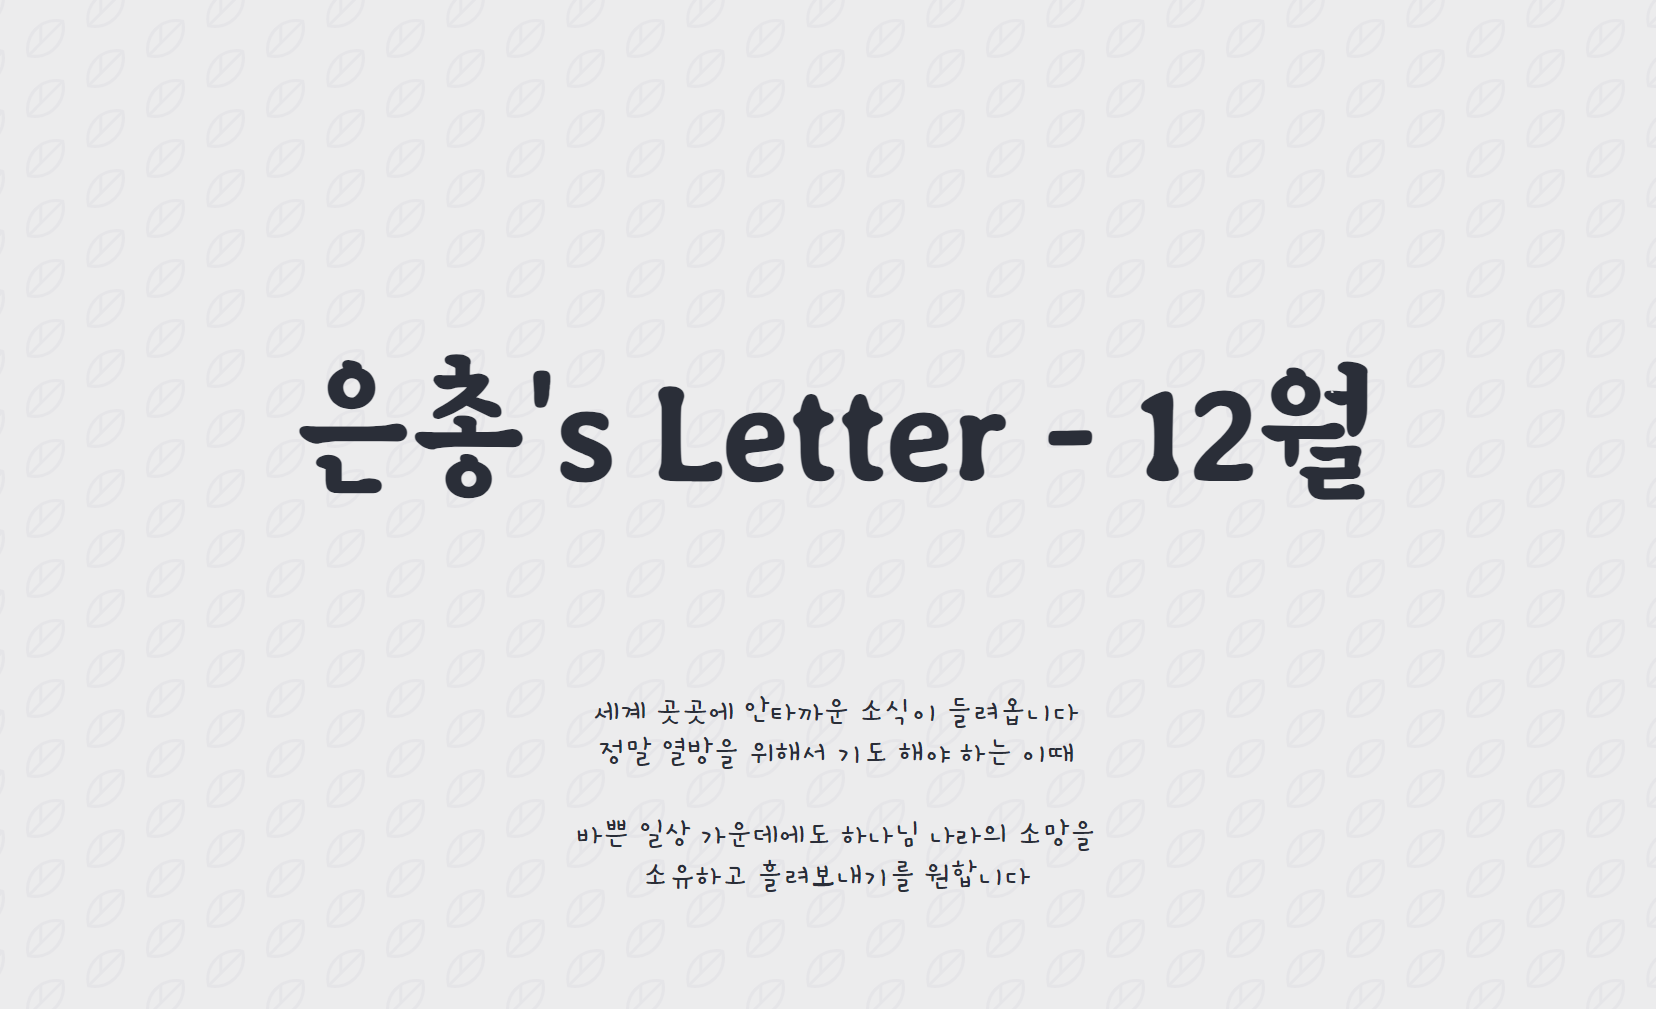
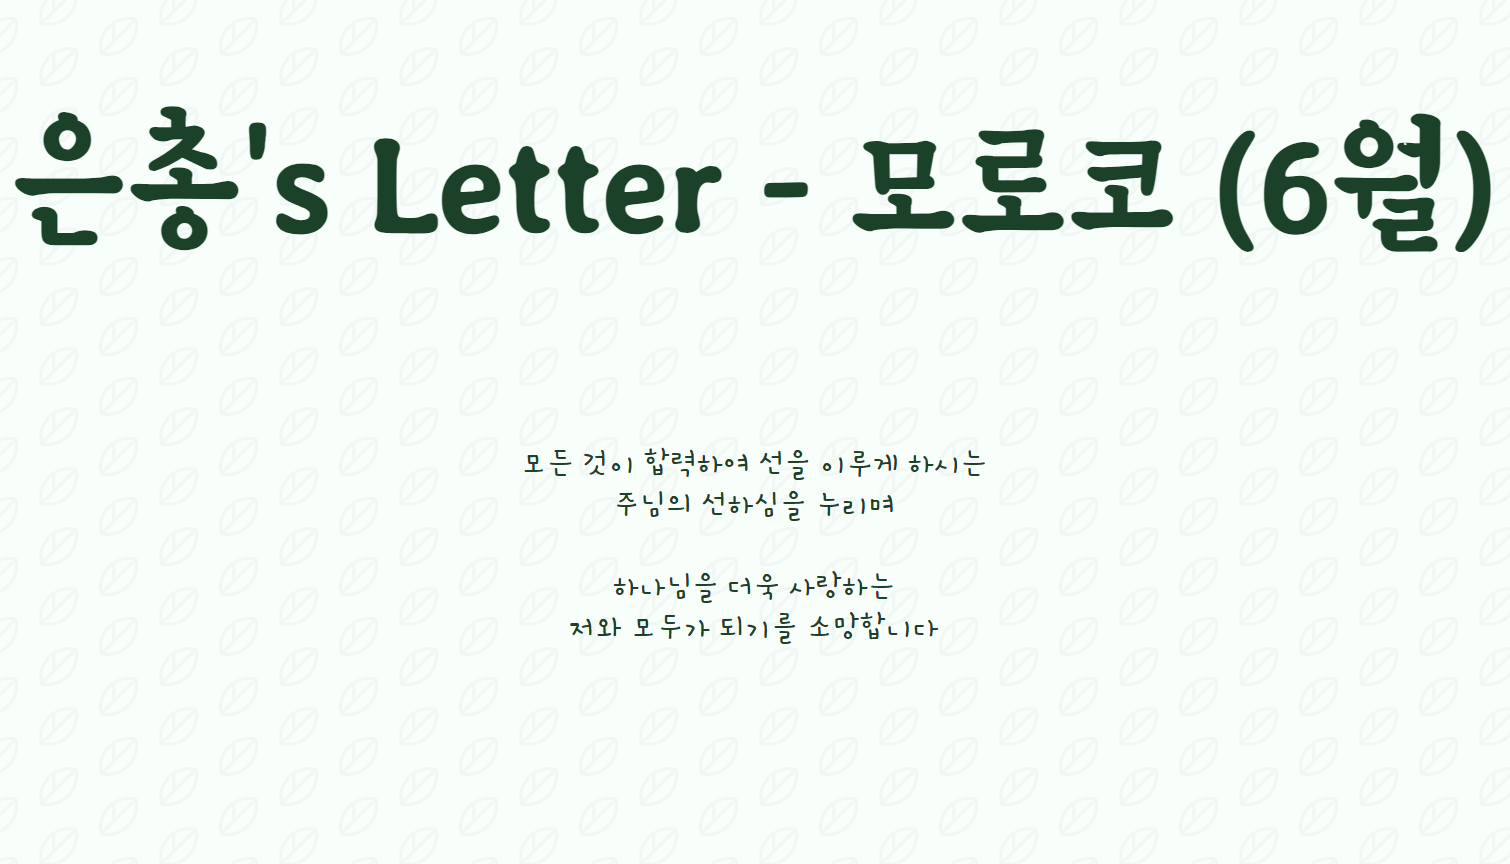
first commit

diff --git a/index.html b/index.html
@@ -4,8 +4,8 @@
     <meta charset="UTF-8">
     <meta name="viewport" content="width=device-width, initial-scale=1.0">
     <!-- 카카오톡 썸네일 사진 -->
-    <meta name="image" property="og:image" content="https://mitto94.github.io/Letter2312/sumnail.png" />
-    <title>은총's Letter - 12월</title>
+    <!-- <meta name="image" property="og:image" content="https://mitto94.github.io/Letter2406/sumnail.png" /> -->
+    <title>은총's Letter - 모로코 (6월)</title>
     <link rel="icon" type="image/jpg" sizes="16x16" href="letter.jpg">
 
     <!-- <link rel="icon" type="image/png" sizes="16x16" href="/favicon-16x16.png"> -->
@@ -61,10 +61,10 @@
     <section id="">
         <div class="title-group">
             <div id="">
-                <h1>은총's Letter - 12월</h1>
+                <h1>은총's Letter - 모로코 (6월)</h1>
                 <br><br>
                 <h3>
-                    <br><br>세계 곳곳에 안타까운 소식이 들려옵니다<br>정말 열방을 위해서 기도 해야 하는 이때<br><br>바쁜 일상 가운데에도 하나님 나라의 소망을 <br> 소유하고 흘려보내기를 원합니다
+                    <br><br>모든 것이 합력하여 선을 이루게 하시는<br>주님의 선하심을 누리며<br><br>하나님을 더욱 사랑하는 <br> 저와 모두가 되기를 소망합니다
                 </h3>
                 <!-- <h3>따듯한 햇살과 찬바람이 <br>함께하는 봄이 왔습니다.<br> 매년 변함없이 피는 꽃과 같이,<br> 하나님의 신실하신 인도하심을 <br> 누리는 시간되시기를 소망합니다.</h3> -->
             </div>
@@ -81,20 +81,38 @@
                 <!-- <img style="height: 100%; width: 100%;" src="한동하늘.jpg" />
                 <i style="display: flex; justify-content: center;"><한동대 꽃 사진></i> -->
                 안녕하세요. <br>
-                오랜만에 기도편지를 적습니다. 벌써 한해의 끝이 보이는 12월이네요. 저에게는 참 시간이 빠르게 흘러 연말이 왔는데, 중보자님은 한 해를 어떻게 보내셨는지 궁금하네요! ㅎㅎ
+                어느덧 한해의 절반을 바라보는 6월입니다. 저는 선교사를 준비하며 비전선교단 전임간사로 한동대와 포항 청년들을 섬기고 있습니다. 청년들이 주님께 헌신하지 않고 자기의 삶에만 집중되어 가는 이 시대에, 부족함에도 큰 은혜를 입어 많은 청년들이 연결되어 바쁘지만 감사하게 지내고 있습니다.
                 <br><br>
-                저는 한동대 비전선교단 동아리원들, FS훈련생들과 함께 시간을 보냈습니다. 동아리와 훈련을 섬기며 훈련생들 한 사람 한 사람을 위해 기도하고 받은 마음과 말씀을 나눠주며 섬기는 시간 가운데, 동일한 말씀을 다른 상황에 처해있는 저에게도 조명하시고 말씀하시며 저를 더욱 섬겨주시는 하나님을 만나는 감사한 시간을 보내고 있습니다.
+                전임간사를 하면서 참 좋은 점이 하나 있습니다. 직장생활을 했던 삶에 비하면 재정과 시간과 나의 삶은 없어져 가지만, 사람들을 섬기며 하나님의 살아계심을 더 가까이서 느끼고 하나님을 깊이 알아갈 수 있다는 게 참 좋습니다. 섬기기엔 많이 부족하고 내 육체의 죄성에서도 자유하지 못하지만, 하나님이 아닌 다른 것을 소망하고 다른 기쁨을 구하는 안타까운 시간을 빨리 돌이킬 수 있는 삶이기에 참 감사합니다.
+                <br><br>
+                <img style="height: 100%; width: 100%;" src="선교축제.jpg" />
+                <i style="display: flex; justify-content: center;"><한동대 선교축제 부스 운영하며></i><br><br>
+                
+                
+                    여전히 저는 하나님이 아닌 다른 사람의 인정을 구하고 비교하려는 죄성이 있지만, 그 모든 연약함을 아시며 저의 마음을 훈계하시고 붙잡으시는 주님의 선하심을 느낍니다. 도리어 낮고 이름이 드러나지 않는 자리로 이끄시는 손길에 마음이 어렵다가도, 그 안에 담긴 주님의 사랑을 보며 나를 가장 잘 아셔서 세심하게 인도하시고 붙잡으심에 주님을 찬양하게 되는 요즘입니다.
+                    <br><br>
+                최근 다윗과 밧세바 사건을 묵상하며 새롭게 와닿았던 부분이 있어 나누고 싶습니다. 다윗이 밧세바를 범했을 때 임신하지 않았더라면 완전범죄가 되었을 것 같다는 생각으로 묵상이 시작되었습니다. 다윗의 죄로 인해 시작된 일이지만, 만약 밧세바가 임신하지 않았다면 다윗은 주어진 권력과 힘으로 이 사건을 잘 감췄을 수도 있을 것 같습니다. 한번씩 이런 질문을 하며 묵상하곤 하는데 꽤 재밌습니다. 여러분은 어떻게 생각하시나요? 
+                <br><br>
+                <img style="height: 100%; width: 100%;" src="러블랑.jpg" />
+                <i style="display: flex; justify-content: center;"><훈련생들과 아웃팅></i>
+
+                <br><br>
+                
+                다윗이 밧세바를 범했지만, 밧세바가 임신하지 않았더라면, 충성스러운 신하인 우리아와 이스라엘을 속이고 자신의 죄를 감추며 살아갈 수 있었을지 모르겠습니다. 어떻게든 감추고자 자신의 지혜와 힘을 사용하기도하고, 스스로를 이방 나라의 왕과 비교하며 합리화도 하며 자기의 위치에 합당한 겉모습은 보여줄 수 있었겠죠. 하지만 모든 마음을 아시고 다윗을 사랑하시는 주님 앞에, 다윗은 이후 정직하게 나아가기는 어려웠을 거 같습니다. 감추어진 죄는 하나님과 다윗의 관계를 반드시 파괴했을 것입니다.
+                    <br><br>
+                    하지만 모든 생명의 주관자이신 하나님은, 다윗이 범죄한 그 시간에 밧세바를 임신하게 허락하시고, 다윗이 하나님과 단절될 수밖에 없는 죄를 숨기지 못하도록 이 사건을 드러내십니다. 그리고 선지자를 보내셔서 다윗의 감추어진 죄를 스스로가 핑계치 못하도록 말씀하십니다. 그로 인해 다윗은 가족과 이스라엘 백성 앞에 자신의 수치를 드러내며 힘든 시간을 보내며 죄로인한 아픔을 겪지만, 다윗의 회개는 그가 다시 주님 앞에 정직하게 나아가도록 만들어줍니다. 
+                    <br><br>
+
+                    [삼하12:13] 다윗이 나단에게 이르되 내가 여호와께 죄를 범하였노라 하매 나단이 다윗에게 말하되 여호와께서도 당신의 죄를 사하셨나니 당신이 죽지 아니하려니와
+                    <br><br>
+
+                    하나님은 기다리셨다는 듯 즉시 나단 선지자를 통해 그 죄를 용서하셨음을 말씀하십니다. 다윗이 자신의 죄를 고백하기를, 그 마음이 주님께 정직히 나아오기를 기다리셨다는 듯 용서를 선포하십니다. 하나님은 감출 수 있었던 그 죄를 드러내시며, 다윗이 주님께 나아오도록 인도하신 것입니다. 하나님은 무엇보다 다윗과의 관계를 지키시기를, 그 사랑의 관계를 회복하길 원하셨던 것 같습니다. 다윗은 스스로의 죄를 감추고자 하지만, 다윗과의 관계를 포기하지 않으시는 하나님의 선하심을 보게됩니다.
+                <br><br>
+                <img style="height: 100%; width: 100%;" src="노방.jpg" />
+                <i style="display: flex; justify-content: center;"><교회에서 노방전도 찬양></i>
                 <br><br>
 
-                <img style="height: 100%; width: 100%;" src="동아리.jpg" />
-                <i style="display: flex; justify-content: center;"><23-2학기 동아리원들과 함께></i><br><br>
-                
-                다들 아시겠지만 이스라앨-하마스 전쟁이 지속되고 있는 상황입니다. 제가 평소에 가던 지역은 팔레스타인 서안지구로, 전쟁에 직접적인 피해를 보고 있는 곳은 아닙니다. 하지만 복음을 영접한 팔레스타인 a친구에게 연락을 했는데, 생각보다 상황이 좋지 않은 상황이었습니다. a친구는 자녀가 3명이 있는데 전쟁의 여파로, 서안지구도 경제 상황이 어려워 자녀들에게 밥도 제대로 주지 못하는 시간을 보내어 힘들어하고 있었습니다. 저를 정말 좋아해 주고 친한 친구이기에, 소식을 들으며 정말 마음이 아프더라고요. 함께 이 민족을 위해서 기도해주세요.
-                <br><br>
-                a친구와 이야기 하기 전까지는, 섬기던 지역에 전쟁이 발생했음에도 불구하고 저는 부끄러울 만큼 마음고생 없이 시간을 보낸 것 같습니다. 나와는 관계없는 사람이라고 기도조차 간절히 하지 않았던 저이지만, 수많은 사람들의 죽음보다 친한 친구 한 명에게 피해가 가는 소식이 오히려 제 마음을 아프게 만드는, 참으로 내 중심적인 마음이 있음을 봅니다. 이스라앨 팔레스타인 민족을 섬기고 있음에도, 이렇게 사랑 없고 부족한 저의 모습이기에, 중보자님의 기도가 더욱 필요합니다. 나의 어떠함에 근거한 것이 아닌 주님의 약속과 사랑에 근거해서, 저를 끝내 하나님만 따르는 선교사로 세우실 주님을 향한 소망을 놓지 않을 수 있도록 함께 기도 부탁드립니다.
-                <br><br>
-                <img style="height: 100%; width: 100%;" src="조훈련생.jpg" />
-                <i style="display: flex; justify-content: center;"><같은 조 훈련생들과 함께></i>
+                때론 이해되지 않는 슬픔과, 나의 죄성 또는 누군가의 죄로 인한 아픔을 겪을때 가 있지만, 그 모든 사건 뒤에는 우리와 사랑의 관계를 회복하길 원하시는 주님의 선하신 뜻이 있음을 믿습니다. 하나님이 아닌 다른 허망한 것을 붙잡았던 손에 힘을 풀어가시며 나의 시선을 주님께 향하게 하십니다. 그리고 주님만이 내 모든 만족 되셨음을 다시 깨닫게되어 주님 한분만으로 진정 행복함을 느낍니다. 모든 것이 합력하여 선을 이루게 하시는 주님의 선하심을 누리며, 하나님을 더욱 사랑하는 저와 모두가 되기를 소망합니다.
 
             </p>
         </div>
@@ -104,12 +122,17 @@
         <h2>선교</h2>
         <div class="text-box" id="text-box">
             <p style="font-size: .8rem;" class="wholeText">
-                나누고 싶은 소식이 있습니다. 돌아오는 1월 말에 2주간 쿠르디스탄으로 단기선교를 갑니다(쿠르디민족 소개는 아래 추신에 있습니다). 이번에는 이스라엘-팔레스타인 민족에도 갈 수 없는 상황이기에, 단기선교를 가지 않으려는 마음이 컸지만, 위에 나누었던 저의 중심적인 마음과 대조되는, 한 영혼을 구원하길 원하시는 하나님의 마음이 부어져 다시 결단하게 되었습니다. 친구 한 명이 굶는 상황에 마음 아파하는 저에게, 여전히 복음을 모르기에 죽어가는 수많은 영혼을 향한 하나님의 애통해하는 마음이 있음을 깨닫게 하셔서, 회개하는 마음으로 복음을 증거하기 위해 단기선교를 결단하게 되었습니다.
+나누고 싶은 소식이 하나 더 있습니다. 이번 여름에 모로코로 단기선교를 가게 되었습니다. 함께 섬겨줄 간사가 필요해서, 저조차도 생각해 보지 못한 민족으로 <7월 4-17일> 에 갑니다. 연속해서 단기선교를 가게 되고 기도 부탁을 하며 동역을 요청하는 것이 인간적인 마음으로는 제게도 부담이 되지만, 열방에 예수님의 이름 한번 들어본 적 없어, 자기를 존재적으로 사랑하시는 하나님을 모른 채 정죄감에 쌓여 고통받는, 잃어버린 자녀들을 되찾길 원하시는 아버지의 마음앞에 순종하는 마음으로 나아가려 합니다. 
+                    <br><br>
+                    <img style="height: 100%; width: 100%;" src="조원들.jpg" />
+                <i style="display: flex; justify-content: center;"><훈련 조원들과 함께></i><br><br>
+
+                모로코는 관광지로도 유명해서 어느 정도 아시는 분도 있을 것 같습니다. 북아프리카 서쪽 끝에 위치하여 지중해와 대서양에 둘러싸여 있고, 아틀란티스 산맥과 사하사 사막이 있는 아름다운 땅이라고 합니다. 사실 모로코는 초대교회시절 복음의 부흥이 있었던 땅입니다. 초대교회시절 핍박으로 흩어진 제자들이 이 땅에 나아와 복음을 전하여 북아프리카 전역이 예수님을 알게 되고 어거스틴, 터툴리안과 같은 신학자가 배출된 곳입니다. 하지만 그들의 언어로 번역된 성경이 없었기에 너무나 빠르게 그 복음의 역사가 막을 내리고, 7세기 이슬람에 정복당한 채, 지금까지 어두움에 갇혀 있습니다. 
                 <br><br>
-                쿠르드 민족이 4개의 나라에 난민처럼 살고 있는데, 그 중 튀르키예 내부에 있는 쿠르드 민족을 만나러 갑니다. 23년 2월에 지진으로 튀르키예 지역에, 많은 쿠르디 민족과 시리아 난민들도 큰 피해를 입었는데, 그곳에 가서 복음을 전하려 합니다. 물리적으로 줄 수 있는게 많이 없지만, 구원을 향한 타는 목마름을 가진 그들에게 영원한 샘물 되신 예수그리스도, 현실의 아픔보다 크신 예수그리스도의 사랑을 증거하는 걸음 가운데 함께해주세요.
+                그러나 어두워 보이는 그 땅에 복음의 빛이 비추일 때, 모든 저주와 사망을 이미 승리하신 예수님의 영광이 드러나게 될 것을 믿습니다. 어떤 어두움도 가릴 수 없는 예수그리스도의 빛이 그 땅에 비추일 때 오랜 시간 그들을 지배한 거짓된 우상의 허탄함이 밝히 드러나고 수많은 자들이 주께 돌아오게 될 것입니다. 빛을 전하러 가는 걸음 가운데 많은 공격과 어려움이 있겠지만 하나된 성도들의(우리들의) 믿음과 순종 앞에 흔들리지 않는 하나님의 나라가 임하게 될것을 소망합니다. 모로코에 복음이 증거되고 하나님 나라가 임하게 될 여정 가운데 함께 동참해 주시길 부탁드립니다.
                 <br><br>
-                <img style="height: 100%; width: 100%;" src="졸업.jpg" />
-                <i style="display: flex; justify-content: center;"><33기 훈련생들 졸업캠프에서></i>
+                <img style="height: 100%; width: 100%;" src="위러브.jpg" />
+                <i style="display: flex; justify-content: center;"><한동대 위러브 버스킹></i>
             </p>
             </div>
     </section>
@@ -120,14 +143,14 @@
         
         <div class="text-box" id="text-box">
             <p style="font-size: .8rem;" class="wholeText">
-                1. 저와 팀원들이 쿠르디스탄 향한 하나님의 마음을 더욱 알게 되어, 주님의 마음으로 그들을 섬길 수 있도록 기도해 주세요
+                1. 저와 팀원들이 모로코를 향한 하나님의 마음을 더욱 알게 되어, 주님의 마음으로 그들을 섬길 수 있도록 기도해 주세요
                 <br><br>
-                 2. 쿠르디 민족 가운데 영원한 샘물의 근원되신 예수그리스도를 만날 수 있도록 기도해 주세요
-                 <br><br>
-                 3. 한국교회의 청년, 성도분들이 자녀를 사랑하는 아버지와 같은 마음을 품고 열방을 위해서 믿음으로 동참할 수 있도록 기도해 주세요
-                 <br><br>
-                 4. 단기선교 준비에 필요한 모든 영적인, 물리적인 필요들이 채워질 수 있도록 기도해 주세요.
-                 
+                2. 모로코 민족 가운데 예수그리스도의 복음의 소식이 심겨질 수 있도록 기도해 주세요
+                <br><br>
+                3. 한국교회의 청년, 성도분들이 자녀를 사랑하는 아버지와 같은 마음을 품고 열방을 위해서 믿음으로 동참할 수 있도록 기도해 주세요
+                <br><br>
+                4. 현장개척적용훈련(단기선교)에 준비에 필요한 300만원의 재정이 주님의 은혜로 순적히 채워지고 모로코 땅의 생명의 기쁨을 동역자분들과 나눌 수 있도록 기도해 주세요.
+                                
                  <!-- <br><br><img style="height: 100%;" onclick="window.open(this.src)" src="베두인1.jpg" /> -->
                  <!-- <img style="height: 100%; width: 50%;" onclick="window.open(this.src)" src="베두인2.jpg" /> -->
                  <!-- <i style="display: flex; justify-content: center;"><베두인 기도편지></i> -->
@@ -142,21 +165,25 @@
         
         <div class="text-box" id="text-box" style="word-break: break-all !important;">
             <p style="font-size: .8rem; word-break: break-word !important;" class="wholeText">
-                *아래 이미지는 쿠르디스탄 소개 사진입니다. 민족에 대한 간략한 설명이 포함되어 있습니다.
-                <br><br><img style="width: 100%; height: 100%;" onclick="window.open(this.src)" src="쿠르디스탄.jpg" />
-                <i style="display: flex; justify-content: center;"><쿠르디스탄 소개 사진></i>
+                *아래 이미지는 모로코 기도카드입니다. 민족에 대한 간략한 설명이 포함되어 있습니다.
+                <br><br>
+                <img style="width: 50%; height: 100%; float: left;" onclick="window.open(this.src)" src="기도1.png" />
+                <img style="width: 50%; height: 100%;" onclick="window.open(this.src)" src="기도2.png" />
+                <i style="display: flex; justify-content: center;"><모로코 기도카드></i>
 
                 <br><br>
 
-                *쿠르디스탄 민족을 소개해 주는 비전선교단에서 만든 영상이 있습니다. 아래 링크를 통해서 확인하실 수 있어요(만든지는 좀 오래되었지만 함께 봐주시고 기도해주시면 감사하겠습니다)                
+                *모로코 민족을 소개해 주는 비전선교단에서 만든 영상이 있습니다. 아래 링크를 통해서 확인하실 수 있어요.
                 <br><br>
-                <a href="#" onclick="window.open(`https://m.facebook.com/story.php?story_fbid=pfbid02x6CTxaxuSpica3oKAPtnzxnGfHDeTqP8reFDYZjYPSK2vAT7MXq7taj8weJ5cP6ol&id=484844428247962&eav=AfaMV9gxoPqYRIXRALZPPSZqQsW8vXCiXmZNSpHU9wKTJ98j8fZarI9co0RiJm_H4os&ref=content_filter&paipv=0`)">쿠르디 민족 영상보러가기</a>
+                <a href="#" onclick="window.open(`https://www.facebook.com/ffvision/posts/1609872762411784`)">모로코 민족 영상보러가기</a>
                 <br>
-                <br><br>* 또한 단기선교 위해 기도하며 재정 후원으로도 함께 해주기를 원하시는 분들께서는 아래의 계좌를 통해 재정후원으로도 함께 해주시기를 정중히 부탁드립니다.
                 <br><br>
-                <span style="text-align: center; display: block;">국민은행 김윤화 438902-01-402820<br>
-                    *팀 계좌이므로 입금자명을 "쿠르드은총 + 후원자님의 성함"으로 꼭 기입해주세요!<br>
-                    ("쿠르드은총"은 쿠르드 민족 단기선교팀의 박은총이라는 뜻입니다)</span>
+                *모로코에 교회가 세워지는 과정에 재정으로 함께해주세요! 두 렙돈과 같은 작은 돈일지라도
+                열방에 귀한 복음의 씨앗으로 함께 심겨져 깊은 기쁨이 함께 나누어지길 소망합니다�
+                <br><br>
+                <span style="text-align: center; display: block;">국민은행 김윤화 438901-01-303241<br>
+                    *팀 계좌이므로 입금자명을 "모로코은총 + 후원자님의 성함"으로 꼭 기입해주세요!<br>
+                    ("모로코은총"은 모로코 민족 단기선교팀의 박은총이라는 뜻입니다)</span>
                 <br><br>
 
                 * 혹시 기도제목이 있으시다면 언제든지 편하게 나눠주세요. 작게나마 함께 기도하기 원합니다. (연락처 010-9674-7290)                <br><br>

diff --git a/style.css b/style.css
@@ -7,28 +7,28 @@
 
 :root {
   /* 텍스트 박스 배경 */
-  --primary-color: #DCE2F0 !important;
+  --primary-color: #FCF6F5 !important;
   /* 글씨 색(진하게) */
-  --on-primary: #50586C;
-  --on-background: #50586C;
+  --on-primary: #23864f;
+  --on-background: #23864f;
   /* 타이틀 폰트 색 */
-  --on-background-alt: #292e38;
+  --on-background-alt: #134128;
   
   /* 제일 밝은 바깥 배경 */
-  --background: #ececed;
+  --background: #f7fffa;
   --box-shadow: 0 5px 20px 1px rgba(7, 6, 6, 0.5);
 }
 
 [data-theme="dark"] {
   /* 텍스트 박스 배경 */
-  --primary-color: #50586C;
+  --primary-color: #23864f;
   /* 글씨 색깔 밝은걸로 */
-  --on-primary: #DCE2F0;
-  --on-background: #DCE2F0;
+  --on-primary: #FCF6F5;
+  --on-background: #FCF6F5;
     /* 타이틀 폰트 색 */
-  --on-background-alt: #ececed;
+  --on-background-alt: #f7fffa;
   /* 전체 배경 색 */
-  --background: #292e38;
+  --background: #134128;
 }
 
 

diff --git a/script.js b/script.js
@@ -19,10 +19,10 @@ function toggleDarkLightMode(mode) {
     nav.style.backgroundColor = mode === "dark" ? `rgb(0 0 0 / 50%)` : `rgb(255 255 255 / 50%)`;
     textBox.forEach(element => {
         //텍스트 박스 색 앞에가 다크, 뒤에 라이트
-        element.style.backgroundColor = mode === "dark" ? `#50586C` : `#DCE2F0`;
+        element.style.backgroundColor = mode === "dark" ? `#23864f` : `#FCF6F5`;
     });
     button.forEach(element => {
-        element.style.backgroundColor = mode === "dark" ? `#50586C` : `#DCE2F0`;
+        element.style.backgroundColor = mode === "dark" ? `#23864f` : `#FCF6F5`;
         element.style.color = mode === "dark" ? `white` : `black`;
     })
     toggleText.textContent = mode === "dark"  ? 'Dark Mode' : 'Light Mode';
